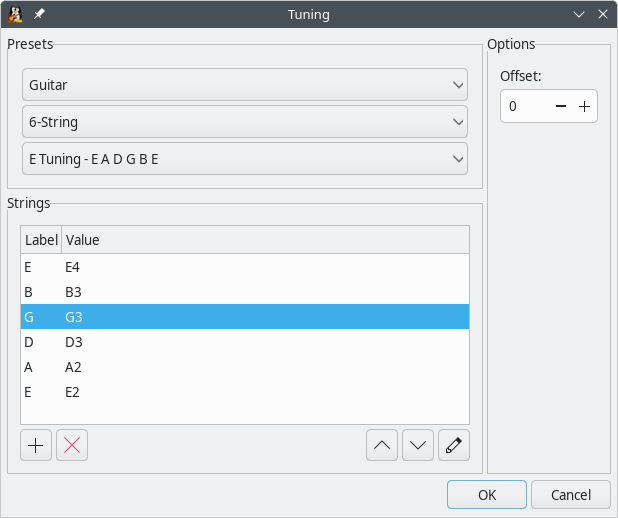
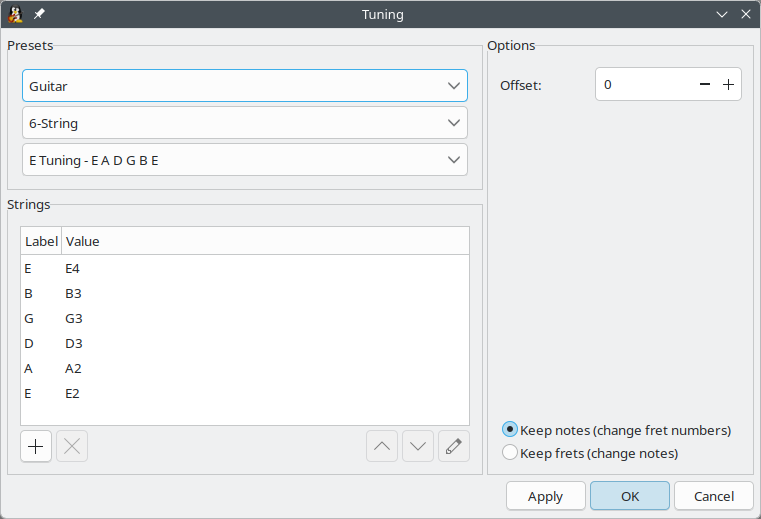
doc

diff --git a/desktop/TuxGuitar/share/help/detail_composition_track.html b/desktop/TuxGuitar/share/help/detail_composition_track.html
@@ -107,7 +107,7 @@
     <h4>Tuning</h4>
     <p>Using the dropdown lists under <strong>Presets</strong>, you can select your stringed instrument, the number of strings and the tuning of the instrument from a range of predefined tunings.</p>
     <img src="images/track_properties_tuning.png" />
-    <p>When changing tuning of a non-empty track, <em>notes</em> and <em>chords</em> are preserved as far as possible, and <em>fret numbers</em> are adapted. Notes may be lost if they become unplayable in new selected tuning. Parameter <strong>Offset</strong> enables you to change globally the track's pitch when playing song. This parameter does not have any impact neither on score nor on tablature graphical representation.</p>
+    <p>When changing tuning of a non-empty track, <em>notes</em> and <em>chords</em> are preserved as far as possible, and <em>fret numbers</em> are adapted. Notes may be lost if they become unplayable in new selected tuning. If the number of strings remain unchanged, it is possible to keep the <em>fret numbers</em> unchanged using the corresponding option. In this case, <em>notes</em> will be modified. Parameter <strong>Offset</strong> enables you to change globally the track's pitch when playing song. This parameter does not have any impact neither on score nor on tablature graphical representation.</p>
     <p>If you want to use a tuning that is not included in the presets, you can select <strong>-- Custom Tunings --</strong> in the first dropdown menu and edit the tuning of each individual string under <strong>Strings</strong>. You can now save your own tuning in the list of custom tunings.</p>
     <img src="images/track_properties_tuning_custom.png" />
     <h4>Fret number</h4>
